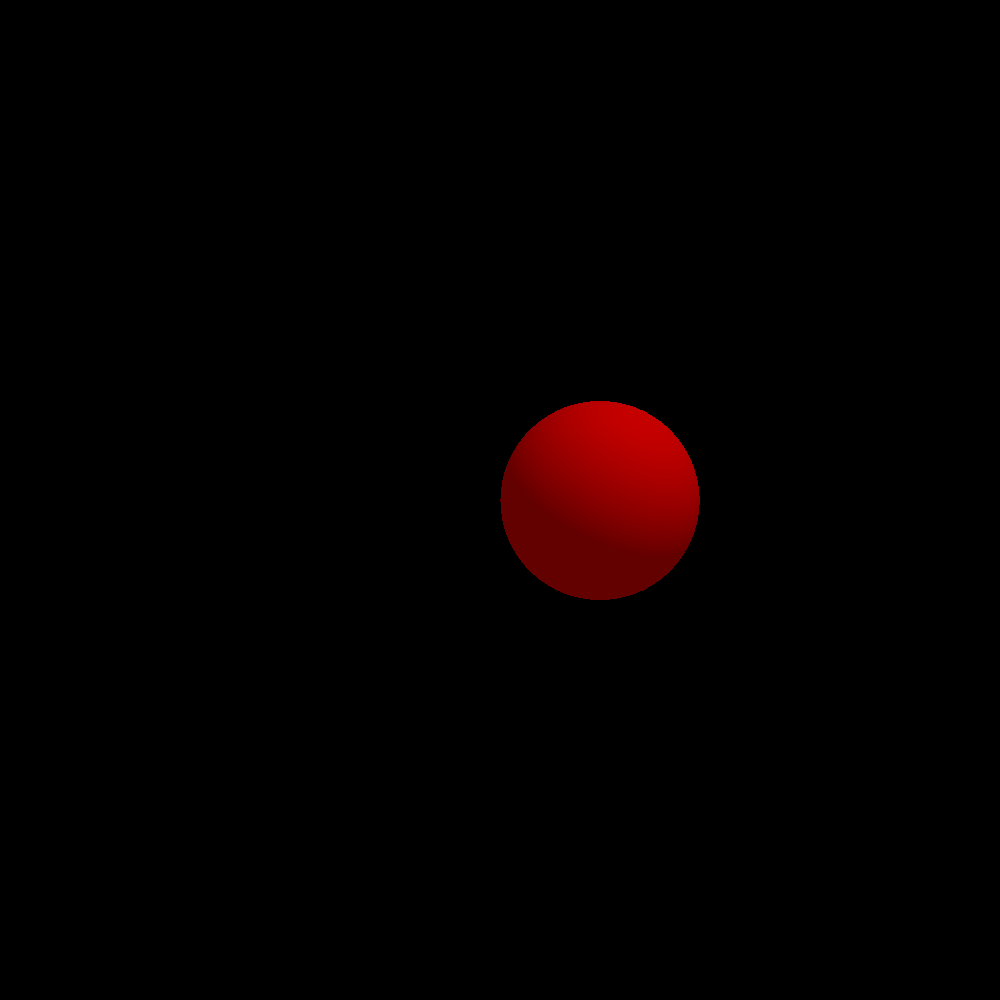
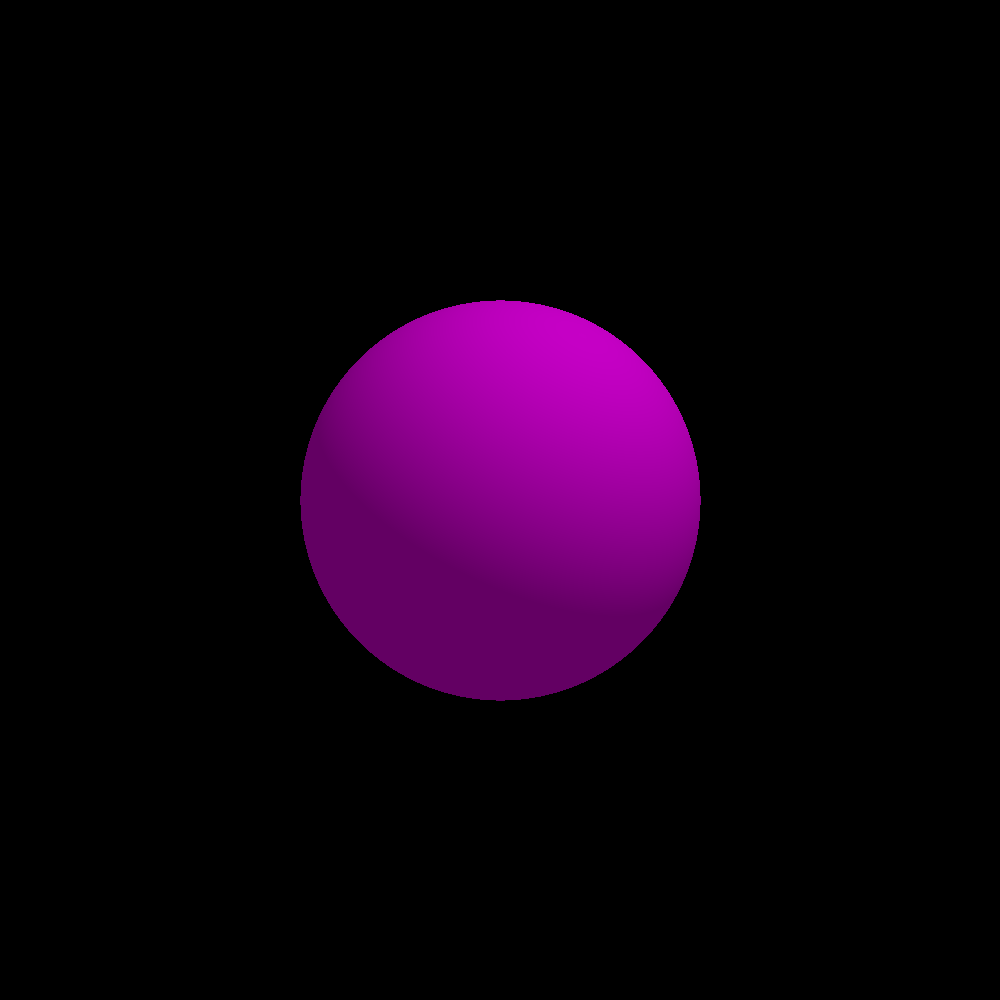
FIX : configloader and material entities parameters

Changed region(s): [[0.279, 0.279, 0.713, 0.713]]

diff --git a/src/ConfigLoader.cpp b/src/ConfigLoader.cpp
@@ -52,10 +52,10 @@ namespace render {
         );
 
         std::cout << render::green << "[INFO] " << render::no_color << "Loaded camera:" << std::endl;
-        std::cout << render::yellow << "\tfocal: " << focalPoint << std::endl;
-        std::cout << render::yellow << "\tcaptor: " << captorWidth << "x" << captorHeight << std::endl;
-        std::cout << render::yellow << "\tposition: (" << position.x << ", " << position.y << ", " << position.z << ")" << render::no_color << std::endl;
-        std::cout << render::yellow << "\trotation: (" << rotation.x << ", " << rotation.y << ", " << rotation.z << ")" << render::no_color << std::endl;
+        std::cout << render::green << "\tfocal: " << focalPoint << std::endl;
+        std::cout << render::green << "\tcaptor: " << captorWidth << "x" << captorHeight << std::endl;
+        std::cout << render::green << "\tposition: (" << position.x << ", " << position.y << ", " << position.z << ")" << render::no_color << std::endl;
+        std::cout << render::green << "\trotation: (" << rotation.x << ", " << rotation.y << ", " << rotation.z << ")" << render::no_color << std::endl;
 
         rdr.setCamera(cam);
     }
@@ -109,25 +109,37 @@ namespace render {
         for (int i = 0; i < objectsValue.getLength(); i++) {
             std::shared_ptr<Entity> en = std::make_shared<Entity>();
             try {
-                libconfig::Setting &args = objectsValue[i].lookup("args");
                 libconfig::Setting &primitive = objectsValue[i].lookup("primitive");
-                std::string name = primitive;
-                name = name + _mode;
-                name = _path + name + ".so";
-                std::shared_ptr<IPrimitive> obj = std::shared_ptr<IPrimitive>(_loader.loadInstance<IPrimitive>(primitive, name));
-                obj->selfInit(args, en.get());
-                en->setPrimitive(obj);
+                libconfig::Setting &pArgs = primitive.lookup("args");
+                libconfig ::Setting &pType = primitive.lookup("type");
+                std::string pName = pType;
 
-                libconfig::Setting &material = objectsValue[i].lookup("material");
-                std::string materialName = material;
-                materialName = materialName + _mode;
-                materialName = _path + materialName + ".so";
-                std::shared_ptr<IMaterial>mat = std::shared_ptr<IMaterial>(_loader.loadInstance<IMaterial>(material, materialName));
-                en->setMaterial(mat);
-                rdr.addEntity(en);
+                pName = pName + _mode;
+                pName = _path + pName + ".so";
+                std::shared_ptr<IPrimitive> obj = std::shared_ptr<IPrimitive>(_loader.loadInstance<IPrimitive>(pName, pName));
+                std::cout << render::green << "[INFO] " << render::no_color << "Loaded primitive: " << pName << std::endl;
+                obj->selfInit(pArgs, en.get());
+                en->setPrimitive(obj);
             } catch (std::exception &e) {
                 wasError = true;
-                std::cerr << render::red << "[ERROR] " << render::no_color << "Failed to load object: " << e.what() << std::endl;
+                std::cerr << render::red << "[ERROR] " << render::no_color << "Failed to load primitive: " << e.what() << std::endl;
+            }
+            try {
+                libconfig::Setting &material = objectsValue[i].lookup("material");
+                libconfig::Setting &mArgs = material.lookup("args");
+                libconfig::Setting &mType = material.lookup("type");
+                std::string mName = mType;
+
+                mName = mName + _mode;
+                mName = _path + mName + ".so";
+                std::shared_ptr<IMaterial>mat = std::shared_ptr<IMaterial>(_loader.loadInstance<IMaterial>(mName, mName));
+                mat->selfInit(mArgs, en.get());
+                en->setMaterial(mat);
+                rdr.addEntity(en);
+                std::cout << render::green << "[INFO] " << render::no_color << "Loaded material: " << mName << std::endl;
+            } catch (std::exception &e) {
+                wasError = true;
+                std::cerr << render::red << "[ERROR] " << render::no_color << "Failed to load material: " << e.what() << std::endl;
             }
         }
         if (wasError) {

diff --git a/src/plugins/Vanille/Flat.material.v.cpp b/src/plugins/Vanille/Flat.material.v.cpp
@@ -9,9 +9,31 @@
 #include "Flat.material.v.hpp"
 
 namespace vanille {
-    FlatMaterial_v::FlatMaterial_v(const sf::Color &color) : render::IMaterial()
+    FlatMaterial_v::FlatMaterial_v() : render::IMaterial()
     {
-        _color = color;
+        _color = sf::Color::White;
+    }
+
+    void FlatMaterial_v::selfInit(libconfig::Setting &setting, render::Entity *parent)
+    {
+        _parent = parent;
+        if (setting.exists("color")) {
+            libconfig::Setting &color = setting["color"];
+            int r = color["r"];
+            int g = color["g"];
+            int b = color["b"];
+            _color = sf::Color(r, g, b);
+        } else {
+            std::cout << render::yellow << "[WARNING] " << render::no_color
+                << "No color found in material" << std::endl;
+        }
+        if (setting.exists("shininess")) {
+            libconfig::Setting &shininess = setting["shininess"];
+            _properties["shininess"] = shininess;
+        } else {
+            std::cout << render::yellow << "[WARNING] " << render::no_color
+                << "No shininess found in material" << std::endl;
+        }
     }
 
     void FlatMaterial_v::getColor(int &r, int &g, int &b,
@@ -37,6 +59,6 @@ namespace vanille {
 extern "C" {
     render::IMaterial *entryPoint()
     {
-        return new vanille::FlatMaterial_v(sf::Color::Red);
+        return new vanille::FlatMaterial_v();
     }
 }

diff --git a/src/plugins/Vanille/Cercle.primitive.v.cpp b/src/plugins/Vanille/Cercle.primitive.v.cpp
@@ -19,6 +19,25 @@ namespace vanille {
         _radius = 1;
     }
 
+    void CerclePrimitive_v::selfInit(libconfig::Setting &setting, render::Entity *parent)
+    {
+        _parent = parent;
+        if (setting.exists("origin")) {
+            libconfig::Setting &origin = setting["origin"];
+            _origin = sf::Vector3f(origin["x"], origin["y"], origin["z"]);
+        } else {
+            std::cout << render::yellow << "[WARNING] " << render::no_color
+                << "No origin found in primitive" << std::endl;
+        }
+        if (setting.exists("radius")) {
+            libconfig::Setting &radius = setting["radius"];
+            _radius = radius;
+        } else {
+            std::cout << render::yellow << "[WARNING] " << render::no_color
+                << "No radius found in primitive" << std::endl;
+        }
+    }
+
     CerclePrimitive_v::~CerclePrimitive_v()
     {
     }
@@ -52,13 +71,6 @@ namespace vanille {
         return (point - _origin);
     }
 
-    void CerclePrimitive_v::selfInit(libconfig::Setting &setting, render::Entity *parent)
-    {
-        _parent = parent;
-        _origin = sf::Vector3f(setting["origin"][0], setting["origin"][1], setting["origin"][2]);
-        // _radius = setting["radius"];
-        _radius = 1;
-    }
 }
 
 extern "C" {

diff --git a/src/plugins/Vanille/Wrapper.v.cpp b/src/plugins/Vanille/Wrapper.v.cpp
@@ -30,9 +30,8 @@ namespace vanille {
 
     sf::Color Wrapper_v::processRay(render::Ray &ray, render::Renderer &rdr, std::vector<render::processRay_t> &processFuns) const
     {
-        for (auto &fun : processFuns) {
+        for (auto &fun : processFuns)
             ray = fun(ray, rdr);
-        }
         return ray.getColor();
     }
 
@@ -54,9 +53,9 @@ namespace vanille {
         std::cout << render::green << "[INFO] " << render::yellow << "Rendering... " << render::no_color << std::endl;
         for (unsigned int i = 0; i < camera.getCaptor().getSize().x; i++) {
             for (unsigned int j = 0; j < camera.getCaptor().getSize().y; j++) {
-            render::Ray ray = rays[i * camera.getCaptor().getSize().y + j];
-            sf::Color tmp = processRay(ray, rdr, processFuns);
-            camera.getCaptor().setPixel(i, j, tmp);
+                render::Ray ray = rays[i * camera.getCaptor().getSize().y + j];
+                sf::Color tmp = processRay(ray, rdr, processFuns);
+                camera.getCaptor().setPixel(i, j, tmp);
             }
         }
 

diff --git a/src/plugins/Vanille/Flat.material.v.hpp b/src/plugins/Vanille/Flat.material.v.hpp
@@ -14,14 +14,16 @@
 namespace vanille {
     class FlatMaterial_v : public render::IMaterial {
         public:
-            FlatMaterial_v(const sf::Color &color);
+            FlatMaterial_v();
             ~FlatMaterial_v() = default;
+            void selfInit(libconfig::Setting &setting, render::Entity *parent) override;
             void getColor(int &r, int &g, int &b, geo::vec3 point) const override;
             float getProperty(const std::string &name) const override;
         private:
             std::map<std::string, float> _properties = {
                 {"shininess", 0},
             };
-            sf::Color _color = sf::Color::Red;
+            sf::Color _color;
+            render::Entity *_parent;
     };
 }

diff --git a/src/Entity.hpp b/src/Entity.hpp
@@ -16,7 +16,7 @@ namespace render {
         public:
             Entity() = default;
             std::shared_ptr<IPrimitive> getPrimitive() const;
-            std::shared_ptr<IMaterial>getMaterial() const;
+            std::shared_ptr<IMaterial> getMaterial() const;
 
             void setPrimitive(std::shared_ptr<IPrimitive> primitive);
             void setMaterial(std::shared_ptr<IMaterial>material);
@@ -26,7 +26,7 @@ namespace render {
 
         private:
             std::shared_ptr<IPrimitive> _primitive = nullptr;
-            std::shared_ptr<IMaterial>_material = nullptr;
+            std::shared_ptr<IMaterial> _material = nullptr;
             std::map<std::string, std::shared_ptr<IPlugin>> _plugins;
     };
 }

diff --git a/src/PluginManagement/IMaterial.hpp b/src/PluginManagement/IMaterial.hpp
@@ -9,11 +9,15 @@
     #define CD083D2B_2A78_484C_BB7C_288689F106B1
     #include <string>
     #include <map>
+    #include <libconfig.h++>
+    #include "PluginManager.hpp"
     #include "geometry.hpp"
 
 namespace render {
+    class Entity;
     class IMaterial {
         public:
+            virtual void selfInit(libconfig::Setting &setting, Entity *parent) = 0;
             virtual float getProperty(const std::string &name) const = 0;
             virtual void getColor(int &r, int &g, int &b, geo::vec3 point) const = 0;
     };
